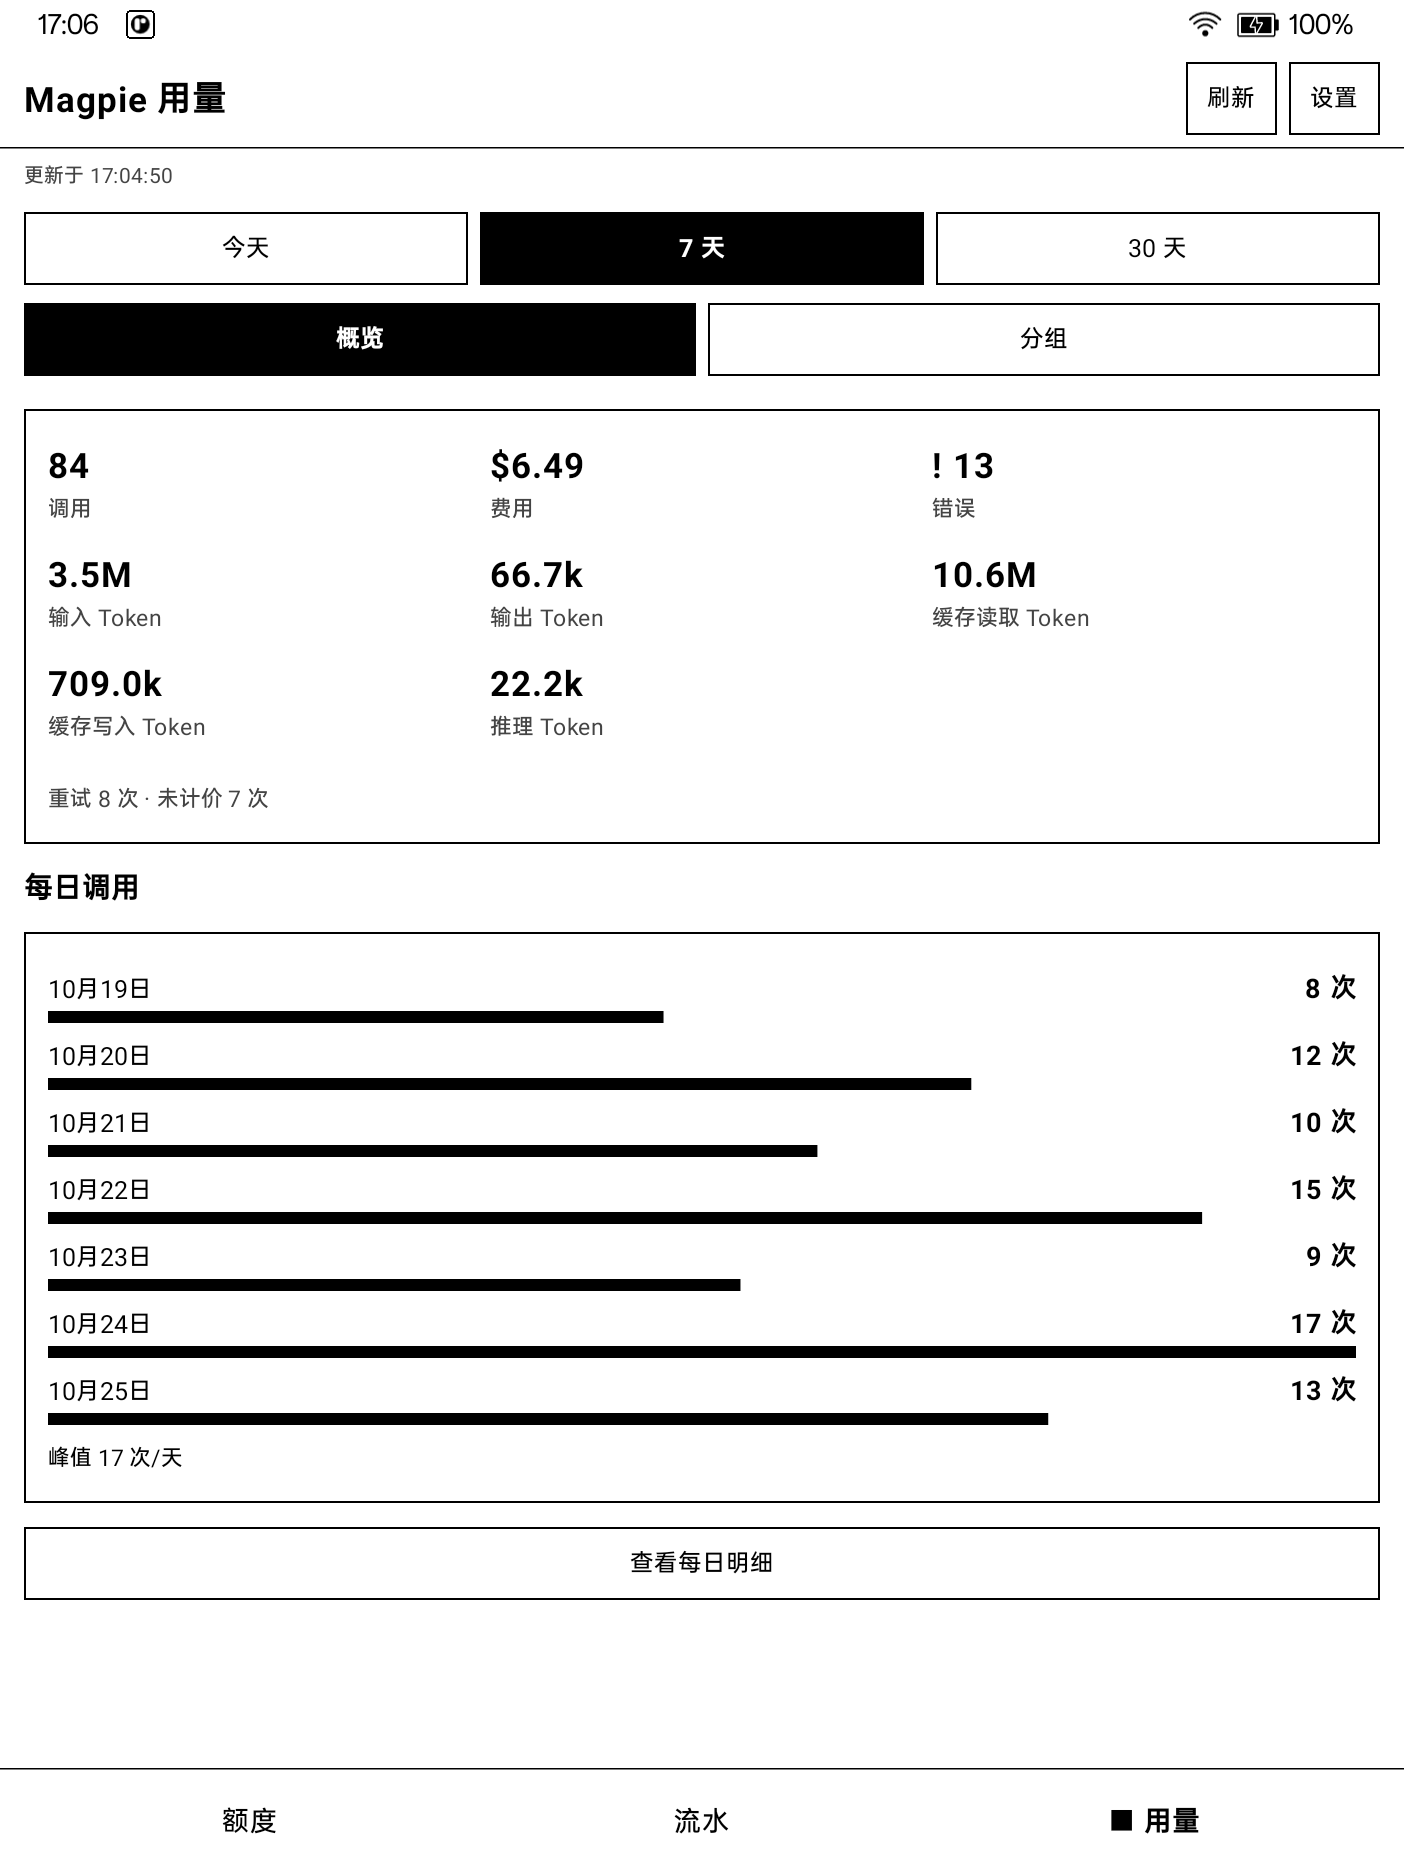
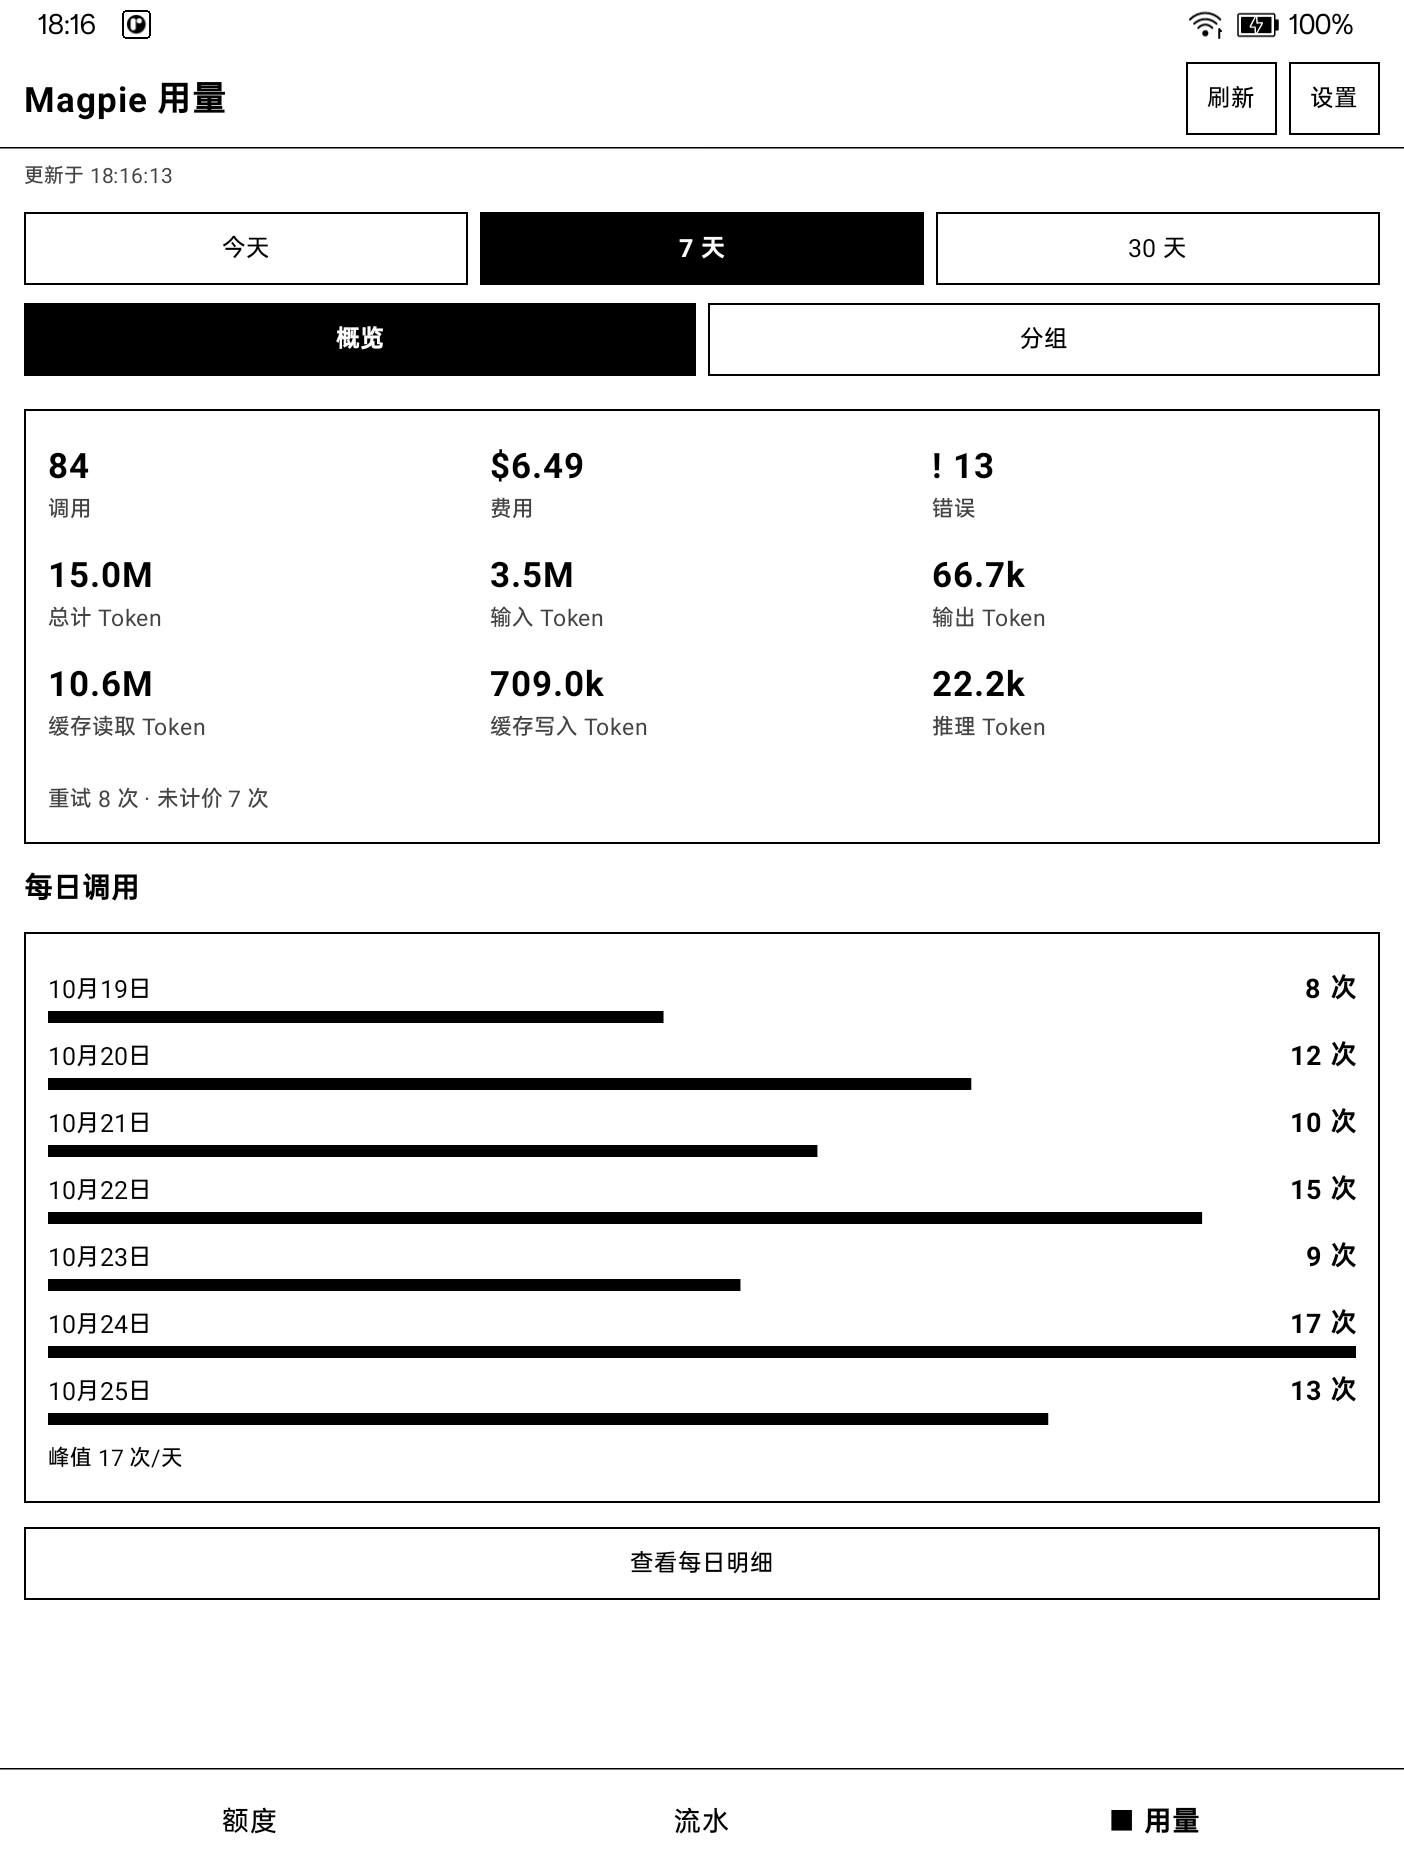
Show group cache writes and refresh verified usage screenshots

diff --git a/app/src/test/java/com/jianyun/x2app/ui/UsageScreenTest.kt b/app/src/test/java/com/jianyun/x2app/ui/UsageScreenTest.kt
@@ -68,9 +68,10 @@ class UsageScreenTest {
         assertEquals("45", totals["推理 Token"])
         val group = UsageSummary.UsageGroup(input = usage.input, cacheRead = 200)
         val metrics = groupMetrics(group).associate { it.label to it.value }
-        assertEquals(7, metrics.size)
+        assertEquals(8, metrics.size)
         assertEquals(fmtNum(group.input), metrics["输入 Token"])
         assertEquals("200", metrics["缓存读取 Token"])
+        assertEquals("0", metrics["缓存写入 Token"])
         assertEquals("0", metrics["错误"])
         assertEquals("$0.00", metrics["费用"])
     }

diff --git a/app/src/main/java/com/jianyun/x2app/ui/UsageScreen.kt b/app/src/main/java/com/jianyun/x2app/ui/UsageScreen.kt
@@ -320,6 +320,7 @@ internal fun groupMetrics(item: UsageSummary.UsageGroup): List<UsageMetric> = li
     UsageMetric("输入 Token", fmtNum(item.input)),
     UsageMetric("输出 Token", fmtNum(item.output)),
     UsageMetric("缓存读取 Token", fmtNum(item.cacheRead)),
+    UsageMetric("缓存写入 Token", fmtNum(item.cacheWrite)),
 )
 
 @Composable
